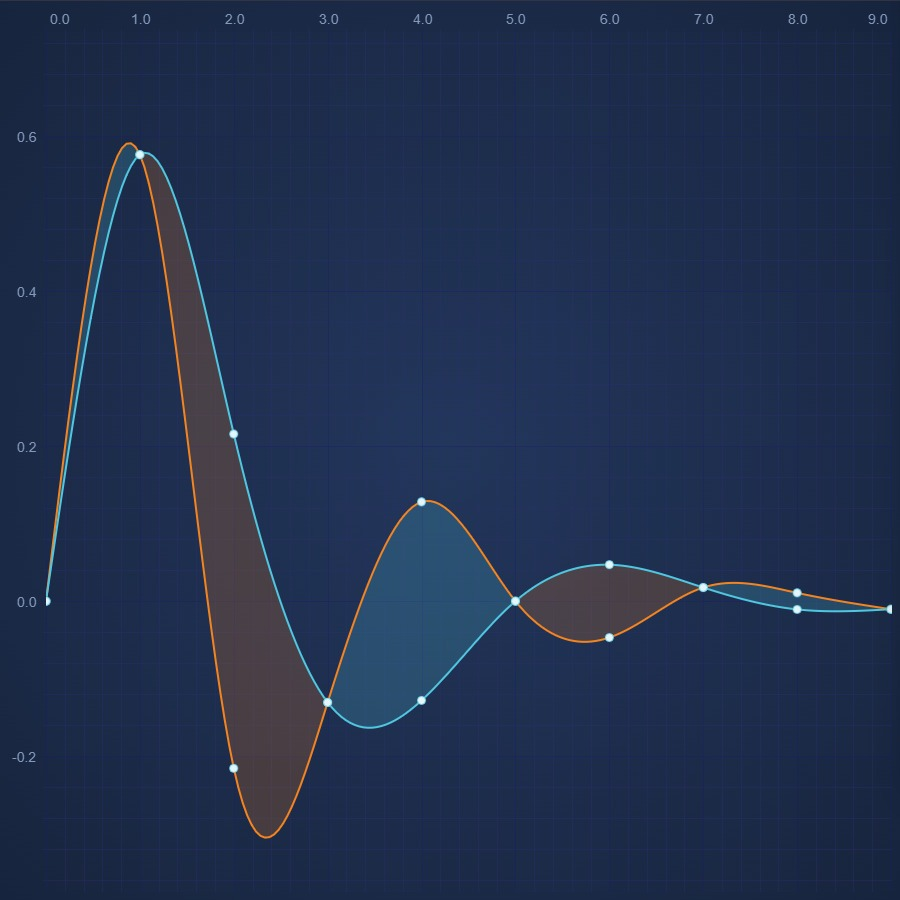
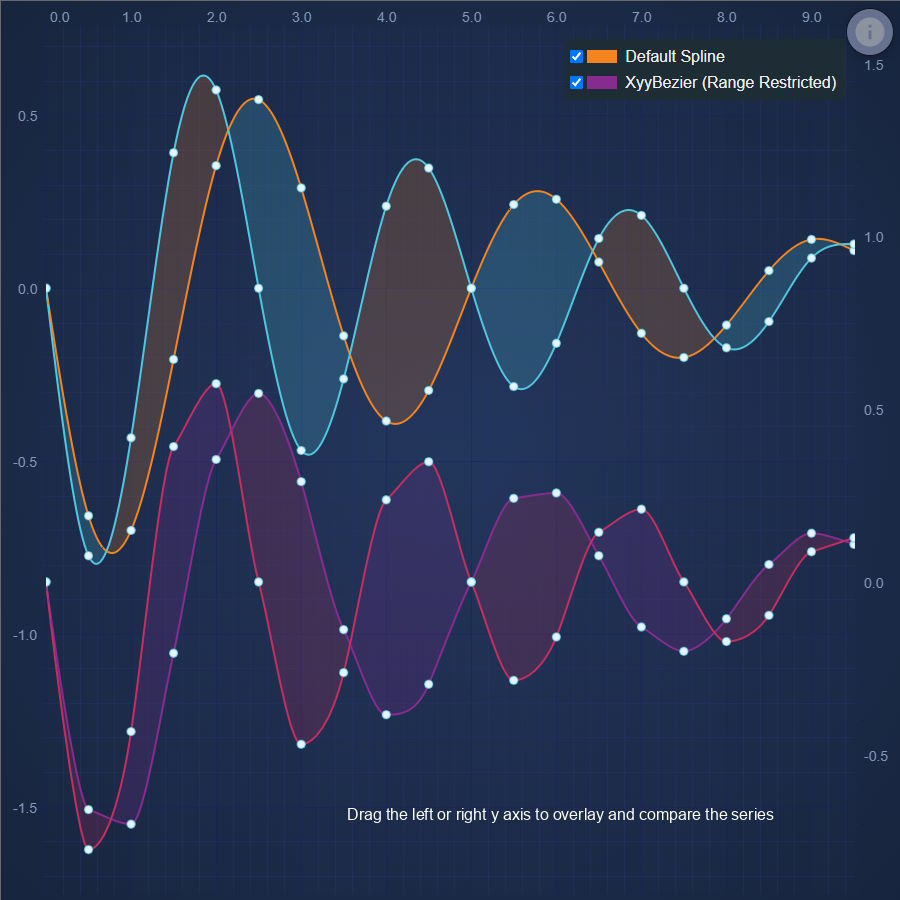
chore(Examples): New images for spline demos

diff --git a/Examples/src/components/Examples/Charts2D/BasicChartTypes/SplineBandSeriesChart/drawExample.ts b/Examples/src/components/Examples/Charts2D/BasicChartTypes/SplineBandSeriesChart/drawExample.ts
@@ -1,11 +1,15 @@
 import {
     EAxisAlignment,
+    ECoordinateMode,
     EDragMode,
+    EHorizontalAnchorPoint,
     ELegendOrientation,
+    ELegendPlacement,
     EllipsePointMarker,
     FadeAnimation,
     LegendModifier,
     MouseWheelZoomModifier,
+    NativeTextAnnotation,
     NumberRange,
     NumericAxis,
     ScaleAnimation,
@@ -30,27 +34,27 @@ export const drawExample = async (rootElement: string | HTMLDivElement) => {
     // Add an XAxis, YAxis
     sciChartSurface.xAxes.add(new NumericAxis(wasmContext, { axisAlignment: EAxisAlignment.Top }));
     sciChartSurface.yAxes.add(
-        new NumericAxis(wasmContext, { axisAlignment: EAxisAlignment.Left, visibleRange: new NumberRange(-1.5, 1) })
+        new NumericAxis(wasmContext, { axisAlignment: EAxisAlignment.Left, visibleRange: new NumberRange(-1.75, 0.75) })
     );
     sciChartSurface.yAxes.add(
         new NumericAxis(wasmContext, {
             axisAlignment: EAxisAlignment.Right,
             id: "y2",
-            visibleRange: new NumberRange(-0.5, 2),
+            visibleRange: new NumberRange(-0.9, 1.6),
         })
     );
 
     // The spline bandseries requires a special dataseries type called XyyDataSeries
     // This stores X, Y1, Y2 point data for the two lines in the band
-    const yData = ExampleDataProvider.getDampedSinewave(0, 1.0, 0, 0.005, 1000, 13);
-    const y1Data = ExampleDataProvider.getDampedSinewave(0, 1.0, 0, 0.005, 1000, 12);
+    const yData = ExampleDataProvider.getDampedSinewave(0, 0.9, 0, 0.002, 1000, 17);
+    const y1Data = ExampleDataProvider.getDampedSinewave(0, 0.9, 0, 0.002, 1000, 16);
 
     const xValues: number[] = [];
     const yValues: number[] = [];
     const y1Values: number[] = [];
 
-    for (let i = 0; i < 10; i++) {
-        const index = i * 100;
+    for (let i = 0; i < 20; i++) {
+        const index = i * 50;
         xValues.push(yData.xValues[index]);
         yValues.push(yData.yValues[index]);
         y1Values.push(y1Data.yValues[index]);
@@ -58,7 +62,7 @@ export const drawExample = async (rootElement: string | HTMLDivElement) => {
 
     // Create the band series and add to the chart
     const rendSeries = new SplineBandRenderableSeries(wasmContext, {
-        dataSeries: new XyyDataSeries(wasmContext, { xValues, yValues, y1Values, dataSeriesName: "Cubic Spline" }),
+        dataSeries: new XyyDataSeries(wasmContext, { xValues, yValues, y1Values, dataSeriesName: "Default Spline" }),
         strokeThickness: 3,
         fill: appTheme.VividOrange + "33",
         fillY1: appTheme.VividSkyBlue + "33",
@@ -81,7 +85,7 @@ export const drawExample = async (rootElement: string | HTMLDivElement) => {
             xValues,
             yValues,
             y1Values,
-            dataSeriesName: "Range Restricted bezier",
+            dataSeriesName: "XyyBezier (Range Restricted)",
         }),
         stroke: appTheme.VividPurple,
         strokeY1: appTheme.VividRed,
@@ -106,11 +110,27 @@ export const drawExample = async (rootElement: string | HTMLDivElement) => {
     );
     sciChartSurface.renderableSeries.add(bezierSeries);
 
+    sciChartSurface.annotations.add(
+        new NativeTextAnnotation({
+            xCoordinateMode: ECoordinateMode.Relative,
+            yCoordinateMode: ECoordinateMode.Relative,
+            x1: 0.9,
+            y1: 0.9,
+            horizontalAnchorPoint: EHorizontalAnchorPoint.Right,
+            text: "Drag the left or right y axis to overlay and compare the series",
+            fontSize: 16,
+        })
+    );
+
     // Optional: Add some interactivity modifiers
     sciChartSurface.chartModifiers.add(
         new YAxisDragModifier({ dragMode: EDragMode.Panning }),
         new MouseWheelZoomModifier(),
-        new LegendModifier({ orientation: ELegendOrientation.Vertical, showCheckboxes: true })
+        new LegendModifier({
+            orientation: ELegendOrientation.Vertical,
+            placement: ELegendPlacement.TopRight,
+            showCheckboxes: true,
+        })
     );
 
     return { wasmContext, sciChartSurface };

diff --git a/Examples/src/components/Examples/Charts2D/BasicChartTypes/SplineLineChart/drawExample.ts b/Examples/src/components/Examples/Charts2D/BasicChartTypes/SplineLineChart/drawExample.ts
@@ -40,7 +40,7 @@ export const drawExample = async (rootElement: string | HTMLDivElement) => {
     });
 
     const splineXyDataSeries = new XyDataSeries(wasmContext, {
-        dataSeriesName: "Cubic Spline",
+        dataSeriesName: "Default Spline",
         xValues,
         yValues,
     });
@@ -72,7 +72,7 @@ export const drawExample = async (rootElement: string | HTMLDivElement) => {
     sciChartSurface.renderableSeries.add(splineSeries);
 
     const bezierDataSeries = new XyDataSeries(wasmContext, {
-        dataSeriesName: "Range Restricted Bezier",
+        dataSeriesName: "Bezier (Range Restricted)",
         xValues,
         yValues,
     });
